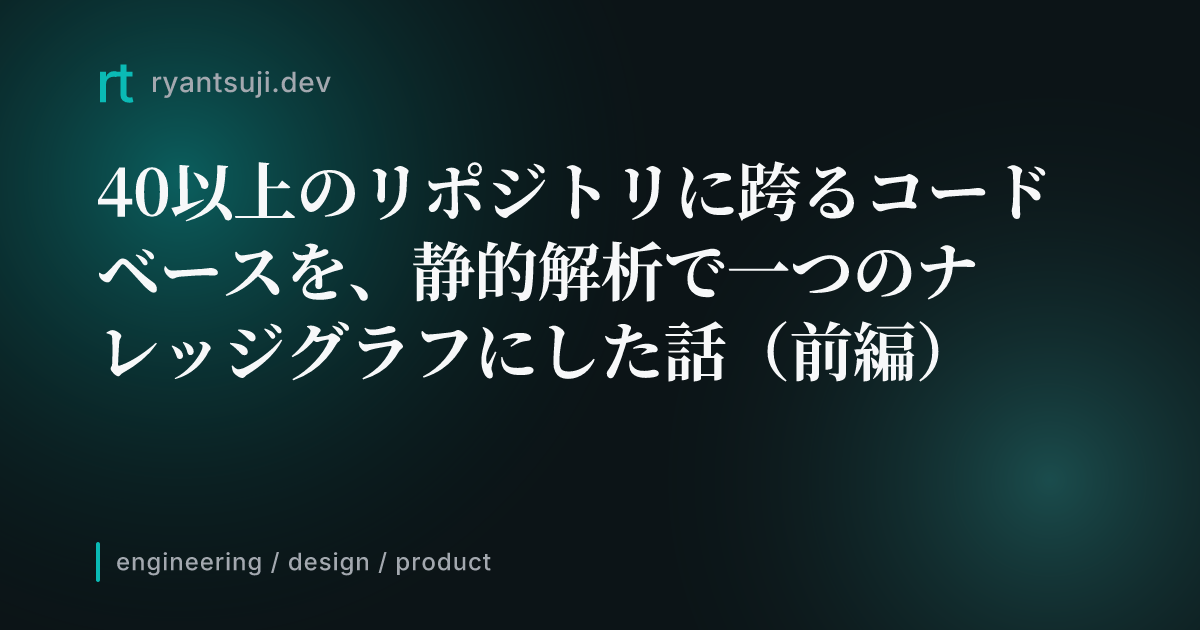
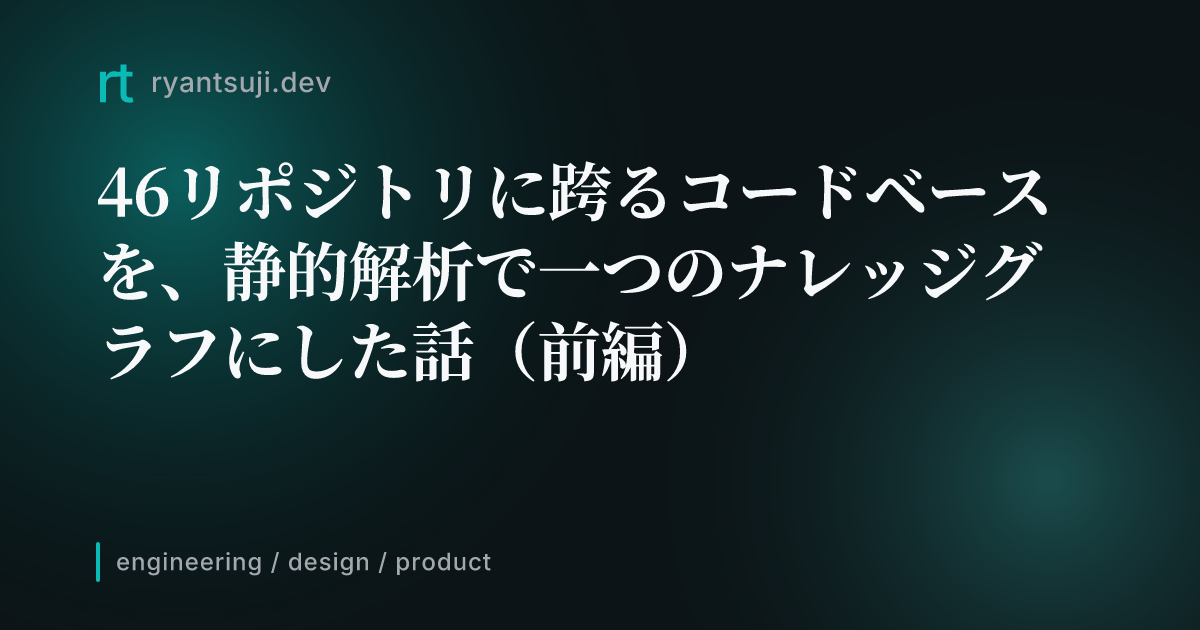
revise(code-graph-deep-dive): 外部レビューの追加指摘を反映
Ryan 判断:
- C5: 「40以上」 → 「46」 で統一 (タイトル / summary / 本文すべて)、
  カバー画像も新タイトルで再生成
- C8: 「## 余談: ...cortexの話」 → 「## 補足: ...cortexの話」
  に変更 (本文中の「余談として」 も「補足として」 に揃え)
- G3: 「90%の精度では使い物にならない」 を引用ブロックで強調 + 算数式
  で根拠を示す (ホップごとに精度が累乗で下がる: 0.9^5≒0.59、0.9^10≒0.35
  vs 99%なら 0.99^5≒0.95、0.99^10≒0.90、一桁の差で実用性が決まる)
- C6: 対応なし (現状維持)

Changed region(s): [[0.0925, 0.2413, 0.8633, 0.4825], [0.0925, 0.5127, 0.8017, 0.6032], [0.8325, 0.2413, 0.8942, 0.3619]]

diff --git a/posts/code-graph-46-repos.ja.md b/posts/code-graph-46-repos.ja.md
@@ -1,9 +1,9 @@
 ---
-title: "40以上のリポジトリに跨るコードベースを、静的解析で一つのナレッジグラフにした話（前編）"
+title: "46リポジトリに跨るコードベースを、静的解析で一つのナレッジグラフにした話（前編）"
 publishedAt: "2026-06-23T08:30:00+09:00"
 updatedAt: "2026-06-23T08:30:00+09:00"
 slug: "code-graph-46-repos"
-summary: "複数サービス合計40以上のリポジトリ (air-closet系 37 + mall系 9) の本番システムのコードベースを、静的解析で1つのナレッジグラフに統合した話。なぜAIにコードベースを理解させるのに「単にコードを読ませる」では足りないのか、なぜ境界ノード(boundary node)を取りに行く必要があるのか、フレームワーク・ライブラリの多様性とどう戦ったか、1月〜3月の試行錯誤を実際のcommit履歴を引きながら振り返る。"
+summary: "複数サービス合計46リポジトリ (air-closet系 37 + mall系 9) の本番システムのコードベースを、静的解析で1つのナレッジグラフに統合した話。なぜAIにコードベースを理解させるのに「単にコードを読ませる」では足りないのか、なぜ境界ノード(boundary node)を取りに行く必要があるのか、フレームワーク・ライブラリの多様性とどう戦ったか、1月〜3月の試行錯誤を実際のcommit履歴を引きながら振り返る。"
 emoji: "🛠️"
 tags:
   - "ai"
@@ -25,14 +25,14 @@ cover: /images/posts/code-graph-46-repos.ja.cover.png
 
 みなさまこんにちは！エアークローゼットでCTOをしている[辻](https://x.com/RyanAircloset)です。
 
-今回は、複数サービス合計**40以上のリポジトリ**に跨る本番システムのコードベースを、静的解析で1つのナレッジグラフに統合した話です。
+今回は、複数サービス合計**46リポジトリ**に跨る本番システムのコードベースを、静的解析で1つのナレッジグラフに統合した話です。
 
 社内では**code-graph**と呼んでいて、今年の1月から3月にかけて構築しました。
 
 書き残しておきたい論点が3つあります。
 
 - なぜ「コードを読ませる」だけでは足りなくて、リポジトリを跨いだ繋がりまで取りに行く必要があったのか
-- 40以上のリポジトリに散らばる多種多様なフレームワーク（jQuery / AngularJS / Express / NestJS / TypeORM / Redux Axios ...）の境界をどう抽出していったか
+- 46リポジトリに散らばる多種多様なフレームワーク（jQuery / AngularJS / Express / NestJS / TypeORM / Redux Axios ...）の境界をどう抽出していったか
 - 3ヶ月の試行錯誤の結果、何が解けて何が解けなかったか
 
 本記事は前編で、code-graph自体の構築と苦労、そして残った課題までを書きます。後編では、code-graphをbaseにしつつ別レイヤーで補強した**service-product-graph**（SPG）の話を予定しています。
@@ -54,19 +54,19 @@ cover: /images/posts/code-graph-46-repos.ja.cover.png
 
 ただ、それは2つの理由で無理です。
 
-- **コンテキストウィンドウ**: 40以上のリポジトリ × 長年積み上がったコード量を、AIにそのまま渡せるサイズではない
+- **コンテキストウィンドウ**: 46リポジトリ × 長年積み上がったコード量を、AIにそのまま渡せるサイズではない
 - **ハルシネーション**: 仮に渡せたとしても、AIが「全体を読んで関係性を抽出する」 のは推論ベースの作業で、見落としや誤りが入る。本番システムの影響範囲調査としては使えない
 
 そこで、まず考えついたのが「**外側から静的解析でナレッジグラフを作る**」 というアプローチでした。これがcode-graphの出発点です。
 
-## 規模感: 40以上のリポジトリ
+## 規模感: 46リポジトリ
 
 対象は2つのgraphに分かれています。
 
 - **air-closet graph（37リポジトリ）**: airClosetや、Men's、WMSなど複数サービスを横断するgraph
 - **mall graph（9リポジトリ）**: airCloset Mall系
 
-合計で**40以上のリポジトリ**。
+合計で**46リポジトリ**。
 
 ポイントは、これが「1サービスで」 ではなく**複数サービスの集合**でこの規模になっている、という点です。サービス境界そのものを跨ぐ依存関係をクロスリポジトリのedgeとして見えるようにしているのが、このあと出てくる**境界ノード**の話に繋がります。
 
@@ -138,7 +138,7 @@ AIは「分からないこと」を「分からない」と返すより、見え
 
 といった揺れが混在します。これらを統一した形に正規化して、callerとhandler、emitterとsubscriber、書き込み側と読み込み側を正しく繋ぎ合わせるのが本当に大変でした。
 
-これを40以上のリポジトリ×多様なフレームワークすべてに対して取りに行く必要がありました。
+これを46リポジトリ×多様なフレームワークすべてに対して取りに行く必要がありました。
 
 実際に当時のgit履歴を覗くと、毎週のように新しいparserやdetectorが足され、ノイズフィルタが追加され、概念整理が入っています。ここに1月から3月にかけての主要なcommitを時系列で並べてみます (commit prefixは当初の `graph-rag` (= ナレッジグラフ + RAG として LLM に供給する基盤、という発想のスタック名) で始まって、2月15日に `code-graph` に統一されています)。
 
@@ -187,9 +187,11 @@ AIは「分からないこと」を「分からない」と返すより、見え
 
 ### なぜそこまで精度にこだわるか
 
-90%の精度では使い物にならないからです。
+> **90%の精度では、まったく使い物になりません。**
 
 たとえば「このAPIを叩いている処理を全部出して」という用途で90%の精度しか出なければ、10%の処理はAIから見えない。影響範囲を調査するためにcode-graphを使う場合、**この見えなかった10%が事故を起こします**。
+
+しかも、graphを辿る用途では、ホップごとに精度が累乗で下がります。1ホップで0.9なら、2ホップで0.81、3ホップで0.729、5ホップで約0.59、10ホップで約0.35 ── 数ホップ辿っただけで結果は半分以下です。一方、99%にまで持っていけば、2ホップで0.98、5ホップで0.95、10ホップでも約0.90を保ちます。**実用に耐えるかどうかは、まさにこの一桁の差で決まる**わけで、算数で証明できる話でもあります。
 
 新しい境界パターンが見つかるたびに独自パーサーを書き足し、**境界の接続率を99%以上に保つ**ことを目標にしてきました。「全境界」という分母を持てない以上、抽出網羅率を直接測ることは難しいので、実際に毎日測れる指標としては「caller側とhandler側がgraph上でちゃんと繋がっている割合」 = 接続率を使っています。次のセクションでその監視の仕組みを書きます。
 
@@ -241,13 +243,13 @@ graph単体では時間がかかります。後に作ったコードベース調
 
 すでにparserディレクトリには10個以上の独自detector / extractorが並んでいます。維持と拡張のコストが下がる兆候はなくて、**新しい技術スタックがコードベースに入ってくるたびに同じ作業を繰り返す**ことになります。
 
-## 余談: 別の場所では別の判断 ── cortexの話
+## 補足: 別の場所では別の判断 ── cortexの話
 
 :::message
 **注記**: 以下で言及する「cortex」は、airCloset社内で独自開発したAIプラットフォームの内部コードネームです。Snowflake CortexやPalo Alto Networks Cortex等の既存商用サービスとは一切関係ありません。
 :::
 
-ここまでcode-graphの話を書いてきましたが、余談として、自分は別途、**cortex**という社内AIプラットフォームを1から作っているプロジェクトを持っています（今は100+ appsの1モノレポ）。
+ここまでcode-graphの話を書いてきましたが、補足として、自分は別途、**cortex**という社内AIプラットフォームを1から作っているプロジェクトを持っています（今は100+ appsの1モノレポ）。
 
 そちらでは、code-graphと同じアプローチは**最初から使わない判断**をしました。代わりに、**アノテーションベースのナレッジグラフ**に倒しています。
 
@@ -261,7 +263,7 @@ graph単体では時間がかかります。後に作ったコードベース調
 
 そして、今回code-graphで扱っている本番システム側に同じアプローチが取れるかというと、これは無理です。
 
-- 40以上のリポジトリ全てにアノテーションを一斉に振るのは、現実的ではない
+- 46リポジトリ全てにアノテーションを一斉に振るのは、現実的ではない
 - 長年動いている本番システム、複数チームが触っている、フレームワークもバラバラ
 - 「コードにアノテーションを入れる」という前提が成立しない
 